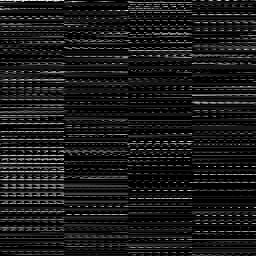
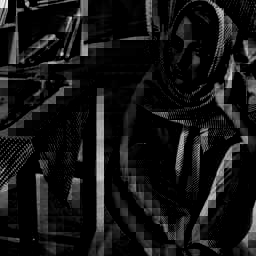
Reconstruct image

diff --git a/JPEG_implementation/src/compression/GUI.java b/JPEG_implementation/src/compression/GUI.java
@@ -192,66 +192,35 @@ public class GUI extends JFrame {
 			
 			Mat newMat = new Mat(ForwardDCT.getMatRows(), ForwardDCT.getMatCols(), CvType.CV_64FC1);
 			
-			Mat[] allMats = new Mat[inverseDCT.size()];
-			allMats = inverseDCT.toArray(allMats);
-			double[] values = new double[ForwardDCT.getMatRows()* ForwardDCT.getMatCols()];
-			
-			List<Mat[]> chenesoio = new ArrayList<>(); 
-			for (int i = 0; i < allMats.length; i += ForwardDCT.getMatCols()/8) {
-				Mat[] mats = new Mat[ForwardDCT.getMatCols()/8];
-				for (int j = 0; j < mats.length; j++) {
-					mats[j] = allMats[i];
-				}
-				chenesoio.add(mats);
-			}
-			
-			int k =0;
+			/* This part works for 8 random rows of the image
 			int row = 0;
-			for (int i = 0; i < chenesoio.size(); i++) {
-				for (int j = 0; j < chenesoio.get(i).length; j++) {
-					for (int l = 0; l < chenesoio.get(i)[j].cols(); l++) {
-						values[k] = chenesoio.get(i)[j].get(row,l)[0];
-						k++;
-					}
+			int col = 0;
+			System.out.println("Size: " + inverseDCT.size());
+			for (int i = 0; i < inverseDCT.size(); i++) {
+				Mat m = inverseDCT.get(i);
+				for (int j = 0; j < m.cols(); j++) { // Forse meglio rows
+					row++;
 				}
-				row++;
+				row = 0;
+				col +=8;
+			}
+			*/
+			System.out.println("------>" + ForwardDCT.getMatCols());
+			// Continue here!!
+			int k = 0;
+			for (int row = 0; row < ForwardDCT.getMatRows(); row += 8) {
+				for (int col = 0; col < ForwardDCT.getMatCols(); col += 8) {
+					Mat m = inverseDCT.get(k);
+					for (int i = 0; i < 8; i++) {
+						newMat.put(row+i, col, matToArr(m.row(i)));
+					}
+					k++;
+				}
 			}
 			
-			System.out.println("values " + values.length);
-			
-			
-			System.out.println("ImageRows " + ForwardDCT.getMatRows());
-			System.out.println("ImageCols " + ForwardDCT.getMatCols());
-			System.out.println("Chenesoio " + chenesoio.size());
-//			int k = 0;
-//			for (int i = 0; i < allMats.length; i++) {
-//				for (int j = 0; j < allMats[i].rows(); j++) { 
-//					for (int l = 0; l < allMats[i].cols(); l++) {
-//						values[k] = allMats[i].get(j, l)[0];
-//						k++;
-//					}
-//				}
-//			}
-//			newMat.put(0, 0, values);
-//			for (int i = 0; i < inverseDCT.size(); i += ForwardDCT.getMatRows()) {
-//				for (int j = 0; j < ForwardDCT.getMatCols(); j++) {
-//					double[] data = matToArr(inverseDCT.get(k)); 
-//					newMat.put(i,j, data);
-//					k++;
-//				}
-//			}
-			
-//			System.out.println("Rows " + newMat.rows() + " Cols: " + newMat.cols());
-			
-//			Mat finalIMG = new Mat();
-//			newMat.convertTo(finalIMG, CvType.CV_8UC1);
-//			
-//			for (int i = 0; i < 10; i++) {
-//				for (int j= 0; j < finalIMG.row(i).cols(); j++) {
-//					System.out.println(finalIMG.get(i,j)[0]);
-//				}
-//			}
-//			Imgcodecs.imwrite("lenaNew.png", finalIMG);
+			Mat finalIMG = new Mat();
+			newMat.convertTo(finalIMG, CvType.CV_8UC1);
+			Imgcodecs.imwrite("lenaNew.png", finalIMG);
 		});
 
 		// Display the window.

diff --git a/JPEG_implementation/src/decompression/InverseQuantization.java b/JPEG_implementation/src/decompression/InverseQuantization.java
@@ -12,7 +12,7 @@ public class InverseQuantization {
 			57, 69, 56, 14, 17, 22, 29, 51, 87, 80, 62, 18, 22, 37, 56, 68, 109, 103, 77, 24, 35, 55, 64, 81, 104, 113,
 			92, 49, 64, 78, 87, 103, 121, 120, 101, 72, 92, 95, 98, 112, 100, 103, 99 };
 
-	static double qualityFactor = 90;
+	static double qualityFactor = 100;
 	static Mat quantisMat = fillMat();
 
 	public static Mat fillMat() {

diff --git a/JPEG_implementation/src/compression/Quantization.java b/JPEG_implementation/src/compression/Quantization.java
@@ -16,7 +16,7 @@ public class Quantization {
 	             49,  64,  78,  87,  103,  121,  120,  101,  
 	             72,  92,  95,  98,  112,  100,  103,   99};
 	
-	static double qualityFactor=90;
+	static double qualityFactor=100;
 	static Mat quantisMat=fillMat();
 
 	
